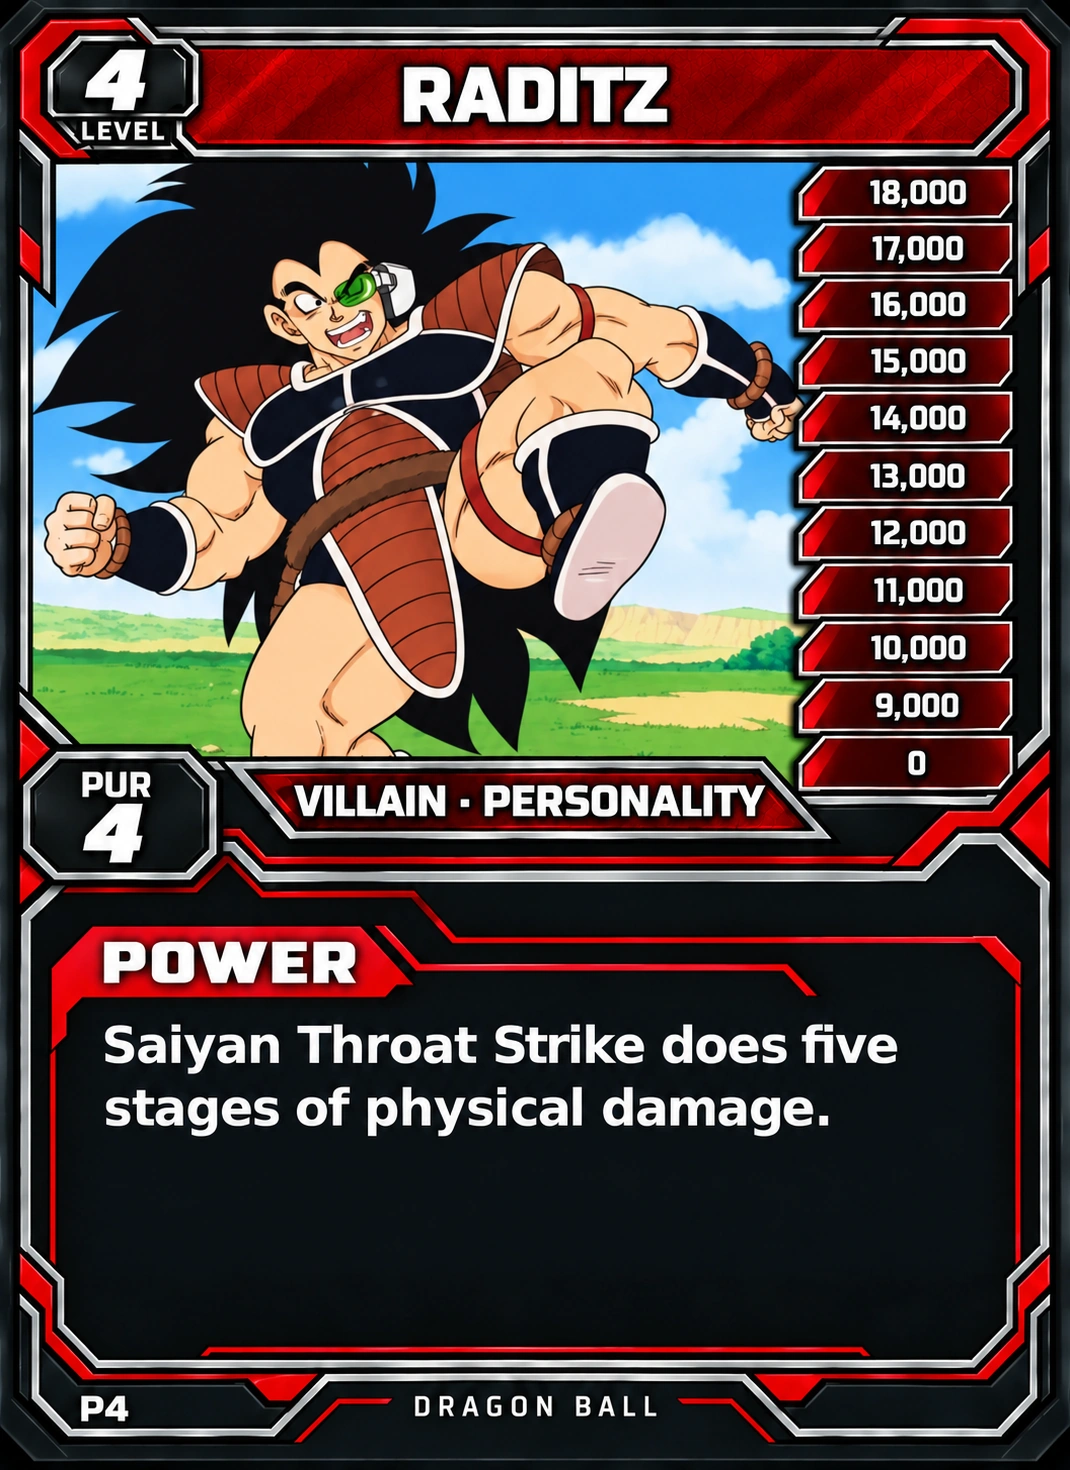
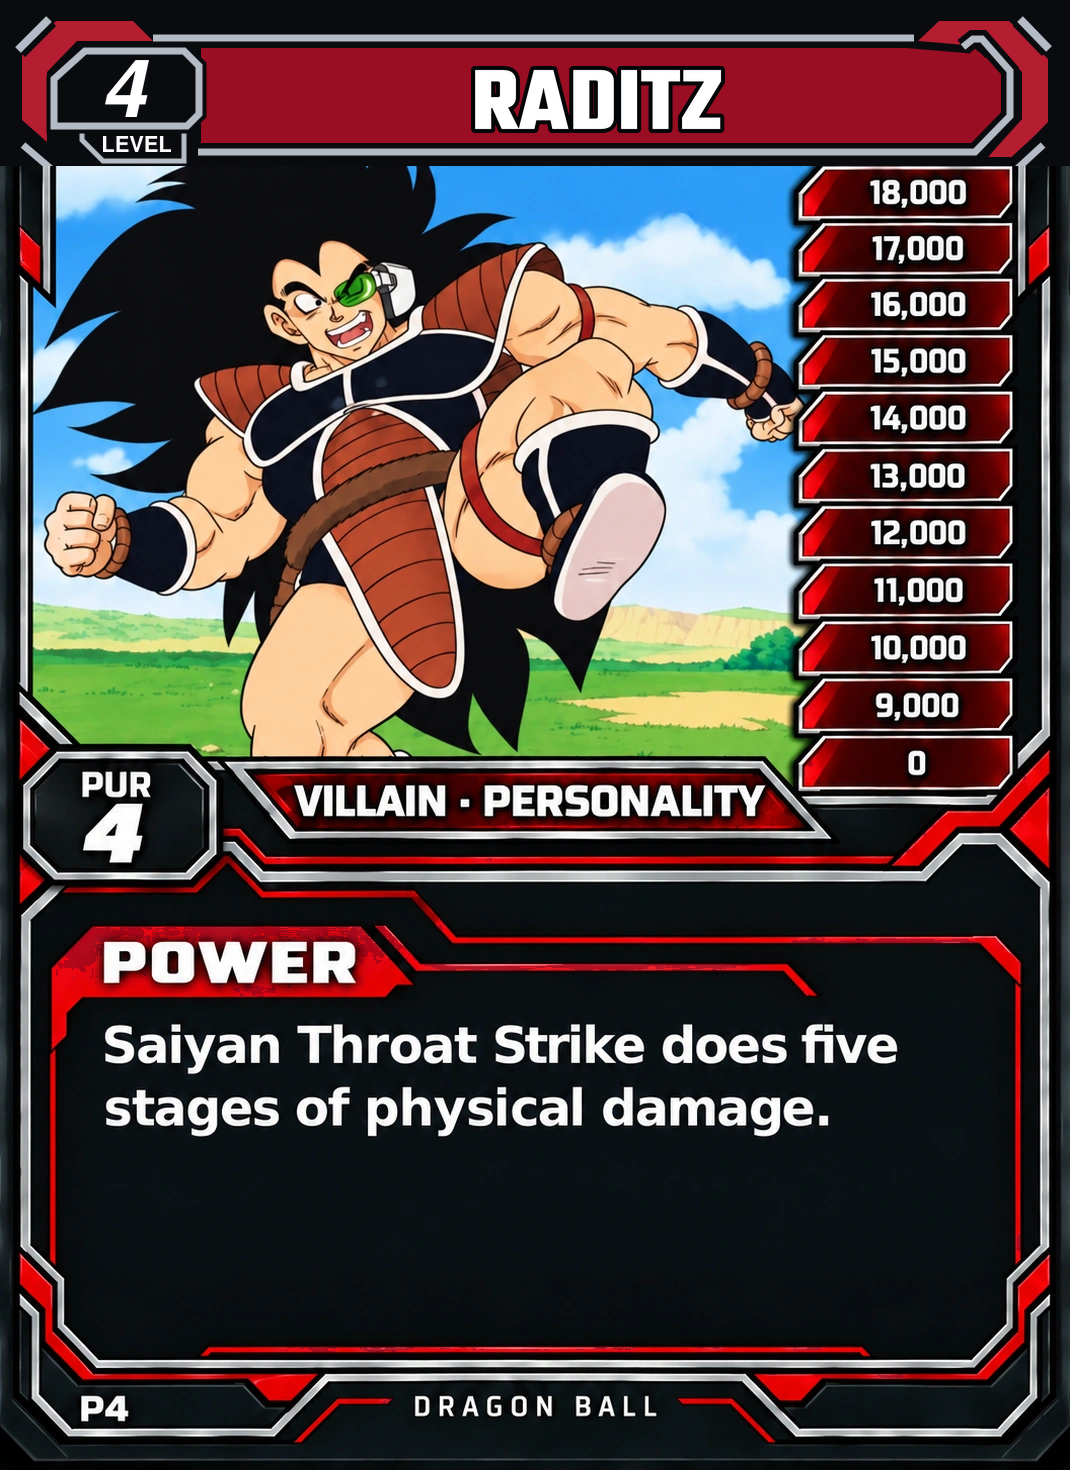
Publish final nine personality images and complete catalog versions

diff --git a/public/cards/catalog.js b/public/cards/catalog.js
@@ -3061,8 +3061,10 @@ export const catalog = [
     "style": "Freestyle",
     "set": "Saiyan Saga",
     "status": "Ready",
-    "image": "/assets/cards/saiyan-245-saibaimen.webp?v=354635d439",
-    "source": "https://retrodbzccg.com/card-images/saiyan-saga-rares/"
+    "image": "/assets/cards/saiyan-245-saibaimen.webp?v=a09161ea25",
+    "source": "https://retrodbzccg.com/card-images/saiyan-saga-rares/",
+    "width": 1070,
+    "height": 1470
   },
   {
     "id": "saiyan-246-saibaimen",
@@ -3072,8 +3074,10 @@ export const catalog = [
     "style": "Freestyle",
     "set": "Saiyan Saga",
     "status": "Ready",
-    "image": "/assets/cards/saiyan-246-saibaimen.webp?v=faf0445856",
-    "source": "https://retrodbzccg.com/card-images/saiyan-saga-rares/"
+    "image": "/assets/cards/saiyan-246-saibaimen.webp?v=7a8cb68ff5",
+    "source": "https://retrodbzccg.com/card-images/saiyan-saga-rares/",
+    "width": 1070,
+    "height": 1470
   },
   {
     "id": "saiyan-247-gokus-truce",
@@ -3127,8 +3131,10 @@ export const catalog = [
     "style": "Freestyle",
     "set": "Saiyan Saga",
     "status": "Ready",
-    "image": "/assets/cards/saiyan-0P1-goku-silver-variant.webp?v=625b6a2aa4",
-    "source": "https://retrodbzccg.com/card-images/saiyan-saga-promos/"
+    "image": "/assets/cards/saiyan-0P1-goku-silver-variant.webp?v=c303df9a44",
+    "source": "https://retrodbzccg.com/card-images/saiyan-saga-promos/",
+    "width": 1070,
+    "height": 1470
   },
   {
     "id": "saiyan-0P2-piccolo-silver-variant",
@@ -3138,8 +3144,10 @@ export const catalog = [
     "style": "Freestyle",
     "set": "Saiyan Saga",
     "status": "Ready",
-    "image": "/assets/cards/saiyan-0P2-piccolo-silver-variant.webp?v=f47508b166",
-    "source": "https://retrodbzccg.com/card-images/saiyan-saga-promos/"
+    "image": "/assets/cards/saiyan-0P2-piccolo-silver-variant.webp?v=c7aa5bc28f",
+    "source": "https://retrodbzccg.com/card-images/saiyan-saga-promos/",
+    "width": 1070,
+    "height": 1470
   },
   {
     "id": "saiyan-0P3-vegeta-silver-variant",
@@ -3149,8 +3157,10 @@ export const catalog = [
     "style": "Freestyle",
     "set": "Saiyan Saga",
     "status": "Ready",
-    "image": "/assets/cards/saiyan-0P3-vegeta-silver-variant.webp?v=2b905b6a1a",
-    "source": "https://retrodbzccg.com/card-images/saiyan-saga-promos/"
+    "image": "/assets/cards/saiyan-0P3-vegeta-silver-variant.webp?v=44d5fe58b3",
+    "source": "https://retrodbzccg.com/card-images/saiyan-saga-promos/",
+    "width": 1070,
+    "height": 1470
   },
   {
     "id": "saiyan-0P4-raditz-silver-variant",
@@ -3160,8 +3170,10 @@ export const catalog = [
     "style": "Freestyle",
     "set": "Saiyan Saga",
     "status": "Ready",
-    "image": "/assets/cards/saiyan-0P4-raditz-silver-variant.webp?v=09eb38d29f",
-    "source": "https://retrodbzccg.com/card-images/saiyan-saga-promos/"
+    "image": "/assets/cards/saiyan-0P4-raditz-silver-variant.webp?v=abe8ebdc61",
+    "source": "https://retrodbzccg.com/card-images/saiyan-saga-promos/",
+    "width": 1070,
+    "height": 1470
   },
   {
     "id": "saiyan-0P5-gohan-silver-variant",
@@ -3171,8 +3183,10 @@ export const catalog = [
     "style": "Freestyle",
     "set": "Saiyan Saga",
     "status": "Ready",
-    "image": "/assets/cards/saiyan-0P5-gohan-silver-variant.webp?v=c74da4b0cb",
-    "source": "https://retrodbzccg.com/card-images/saiyan-saga-promos/"
+    "image": "/assets/cards/saiyan-0P5-gohan-silver-variant.webp?v=952858bdff",
+    "source": "https://retrodbzccg.com/card-images/saiyan-saga-promos/",
+    "width": 1070,
+    "height": 1470
   },
   {
     "id": "saiyan-0P6-krillin-silver-variant",
@@ -3182,8 +3196,10 @@ export const catalog = [
     "style": "Freestyle",
     "set": "Saiyan Saga",
     "status": "Ready",
-    "image": "/assets/cards/saiyan-0P6-krillin-silver-variant.webp?v=3e08b3ed60",
-    "source": "https://retrodbzccg.com/card-images/saiyan-saga-promos/"
+    "image": "/assets/cards/saiyan-0P6-krillin-silver-variant.webp?v=26690b0c91",
+    "source": "https://retrodbzccg.com/card-images/saiyan-saga-promos/",
+    "width": 1070,
+    "height": 1470
   },
   {
     "id": "saiyan-0P7-nappa-silver-variant",
@@ -3193,7 +3209,9 @@ export const catalog = [
     "style": "Freestyle",
     "set": "Saiyan Saga",
     "status": "Ready",
-    "image": "/assets/cards/saiyan-0P7-nappa-silver-variant.webp?v=fc9ee43225",
-    "source": "https://retrodbzccg.com/card-images/saiyan-saga-promos/"
+    "image": "/assets/cards/saiyan-0P7-nappa-silver-variant.webp?v=26fb5d0aca",
+    "source": "https://retrodbzccg.com/card-images/saiyan-saga-promos/",
+    "width": 1070,
+    "height": 1470
   }
 ];

diff --git a/tools/card-frames/render_personality_081_130.py b/tools/card-frames/render_personality_081_130.py
@@ -43,7 +43,7 @@ def render_personality(c,rules,catalog):
     result,rails=templates();result=result.copy();d=ImageDraw.Draw(result)
     # Keep the approved frame, replacing every Goku-specific content region.
     d.polygon([(201,48),(974,48),(1003,73),(1003,114),(972,143),(201,143)],fill='#0951ce')
-    d.polygon([(78,56),(170,56),(189,76),(189,151),(61,151),(61,78)],fill='#090b0e')
+    d.rectangle((48,44,203,164),fill='#090b0e')
     path='public'+c['image'].split('?')[0]
     original=Image.open(io.BytesIO(source(path))).convert('RGB')
     # Recover only the illustration, excluding the obsolete power-stage UI.
@@ -55,8 +55,8 @@ def render_personality(c,rules,catalog):
     d.rectangle((77,1017,995,1322),fill='#090b0e')
     d.rectangle((77,1377,225,1414),fill='#090b0e')
     centered(result,c['name'].upper(),TITLE,92,598,100,756,4)
-    centered(result,str(data['level']),BODY,76,123,89,104)
-    centered(result,'LEVEL',BODY,25,123,135,104)
+    centered(result,str(data['level']),'/usr/share/fonts/opentype/urw-base35/NimbusSans-BoldItalic.otf',80,127,89,106)
+    centered(result,'LEVEL',BODY,22,137,144,83)
     centered(result,'PUR',BODY,35,122,785,114)
     centered(result,str(data['pur']),BODY,70,122,835,114)
     # Low-opacity dark fills sit under separated, precisely aligned SVG rails.

diff --git a/tools/card-frames/personality-design.md b/tools/card-frames/personality-design.md
@@ -8,8 +8,7 @@ to show the approved layout; that artwork still needs restoration when #158
 is reached.
 
 - Use blue for heroes and deep red for villains, never pink.
-- Keep the straight silver borders, clean corner joins, and squared lower
-  corners of the LEVEL badge. Do not introduce inset notches.
+- Keep the straight silver borders, clean corner joins, and an angular number panel with a separate, narrower LEVEL tab beneath it, per the October 10 reference. Keep the number bold and slightly oblique; center the label within the tab.
 - Keep the power-stage boxes toward the right, with visible clearance from
   the outer frame and separate, evenly spaced rows.
 - Use a restrained, matte scouter appearance with translucent dark panels.
